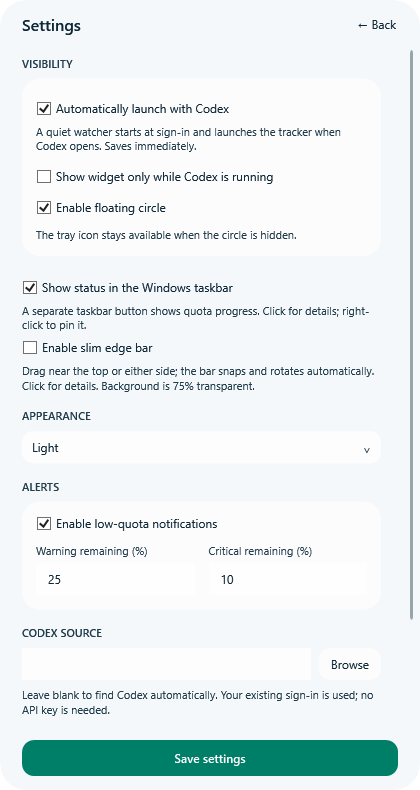
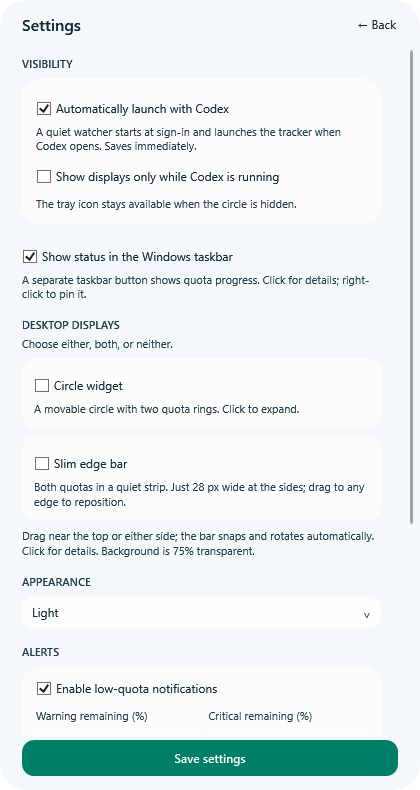
Balance display choices and slim the side bar with subtle quota colors

diff --git a/src/CodexUsageTracker.App/SettingsPage.xaml b/src/CodexUsageTracker.App/SettingsPage.xaml
@@ -13,9 +13,9 @@
         <StackPanel Margin="22,8,15,22">
           <TextBlock Text="VISIBILITY" FontSize="11" FontWeight="SemiBold" Foreground="{DynamicResource MutedBrush}"/>
           <Border Background="{DynamicResource CardBrush}" CornerRadius="18" Padding="14" Margin="0,8,0,16">
-            <StackPanel><CheckBox x:Name="Startup" Content="Automatically launch with Codex" Click="ChangeStartup"/><TextBlock Text="A quiet watcher starts at sign-in and launches the tracker when Codex opens. Saves immediately." FontSize="11" TextWrapping="Wrap" Foreground="{DynamicResource MutedBrush}" Margin="0,0,0,8"/><CheckBox x:Name="OnlyRunning" Content="Show widget only while Codex is running"/><CheckBox x:Name="Floating" Content="Enable floating circle"/><TextBlock Text="The tray icon stays available when the circle is hidden." FontSize="11" Foreground="{DynamicResource MutedBrush}" TextWrapping="Wrap" Margin="0,4,0,0"/></StackPanel>
+            <StackPanel><CheckBox x:Name="Startup" Content="Automatically launch with Codex" Click="ChangeStartup"/><TextBlock Text="A quiet watcher starts at sign-in and launches the tracker when Codex opens. Saves immediately." FontSize="11" TextWrapping="Wrap" Foreground="{DynamicResource MutedBrush}" Margin="0,0,0,8"/><CheckBox x:Name="OnlyRunning" Content="Show displays only while Codex is running"/><TextBlock Text="The tray icon stays available when the circle is hidden." FontSize="11" Foreground="{DynamicResource MutedBrush}" TextWrapping="Wrap" Margin="0,4,0,0"/></StackPanel>
           </Border>
-          <CheckBox x:Name="TaskbarEnabled" Content="Show status in the Windows taskbar"/><TextBlock Text="A separate taskbar button shows quota progress. Click for details; right-click to pin it." TextWrapping="Wrap" FontSize="11" Foreground="{DynamicResource MutedBrush}"/><CheckBox x:Name="EdgeEnabled" Content="Enable slim edge bar"/><TextBlock Text="Drag near the top or either side; the bar snaps and rotates automatically. Click for details. Background is 75% transparent." TextWrapping="Wrap" FontSize="11" Foreground="{DynamicResource MutedBrush}" Margin="0,0,0,16"/><TextBlock Text="APPEARANCE" FontSize="11" FontWeight="SemiBold" Foreground="{DynamicResource MutedBrush}"/>
+          <CheckBox x:Name="TaskbarEnabled" Content="Show status in the Windows taskbar"/><TextBlock Text="A separate taskbar button shows quota progress. Click for details; right-click to pin it." TextWrapping="Wrap" FontSize="11" Foreground="{DynamicResource MutedBrush}"/><TextBlock Text="DESKTOP DISPLAYS" FontSize="11" FontWeight="SemiBold" Foreground="{DynamicResource MutedBrush}" Margin="0,16,0,4"/><TextBlock Text="Choose either, both, or neither." FontSize="11" Foreground="{DynamicResource MutedBrush}" Margin="0,0,0,8"/><Border Background="{DynamicResource CardBrush}" CornerRadius="14" Padding="12" Margin="0,0,0,8"><StackPanel><CheckBox x:Name="Floating" Content="Circle widget"/><TextBlock Text="A movable circle with two quota rings. Click to expand." FontSize="11" TextWrapping="Wrap" Foreground="{DynamicResource MutedBrush}"/></StackPanel></Border><Border Background="{DynamicResource CardBrush}" CornerRadius="14" Padding="12" Margin="0,0,0,8"><StackPanel><CheckBox x:Name="EdgeEnabled" Content="Slim edge bar"/><TextBlock Text="Both quotas in a quiet strip. Just 28 px wide at the sides; drag to any edge to reposition." FontSize="11" TextWrapping="Wrap" Foreground="{DynamicResource MutedBrush}"/></StackPanel></Border><TextBlock Text="Drag near the top or either side; the bar snaps and rotates automatically. Click for details. Background is 75% transparent." TextWrapping="Wrap" FontSize="11" Foreground="{DynamicResource MutedBrush}" Margin="0,0,0,16"/><TextBlock Text="APPEARANCE" FontSize="11" FontWeight="SemiBold" Foreground="{DynamicResource MutedBrush}"/>
           <ComboBox x:Name="ThemeChoice" SelectedIndex="0" Margin="0,8,0,16"><ComboBoxItem Content="System"/><ComboBoxItem Content="Light"/><ComboBoxItem Content="Dark"/></ComboBox>
           <TextBlock Text="ALERTS" FontSize="11" FontWeight="SemiBold" Foreground="{DynamicResource MutedBrush}"/>
           <Border Background="{DynamicResource CardBrush}" CornerRadius="18" Padding="14" Margin="0,8,0,16">

diff --git a/src/CodexUsageTracker.App/EdgeBarWindow.xaml b/src/CodexUsageTracker.App/EdgeBarWindow.xaml
@@ -1,5 +1,6 @@
 <Window x:Class="CodexUsageTracker.App.EdgeBarWindow" xmlns="http://schemas.microsoft.com/winfx/2006/xaml/presentation" xmlns:x="http://schemas.microsoft.com/winfx/2006/xaml" WindowStyle="None" ResizeMode="NoResize" AllowsTransparency="True" Background="Transparent" ShowInTaskbar="False" Topmost="True" ShowActivated="False" Title="Codex edge usage bar">
-  <Border Background="{DynamicResource EdgeGlassBrush}" CornerRadius="5" Padding="6,4" MouseLeftButtonDown="MoveOrOpen" Cursor="Hand" AutomationProperties.Name="Codex usage; click for details, drag along screen edge">
+  <Border Width="132" Height="28" Background="{DynamicResource EdgeGlassBrush}" CornerRadius="6" Padding="6,4" MouseLeftButtonDown="MoveOrOpen" Cursor="Hand" AutomationProperties.Name="Codex usage; click for details, drag along screen edge">
+    <Border.LayoutTransform><RotateTransform x:Name="EdgeRotation"/></Border.LayoutTransform>
     <StackPanel x:Name="Quotas" Orientation="Horizontal" HorizontalAlignment="Center" VerticalAlignment="Center">
       <StackPanel x:Name="FiveBlock" Width="60" Margin="0,0,10,0">
         <TextBlock FontSize="11" HorizontalAlignment="Center"><Run Text="5h " FontSize="9"/><Run Text="{Binding FiveRemaining, Mode=OneWay}"/></TextBlock>

diff --git a/src/CodexUsageTracker.App/TaskbarStatusWindow.cs b/src/CodexUsageTracker.App/TaskbarStatusWindow.cs
@@ -25,8 +25,8 @@ internal sealed class TaskbarStatusWindow : Window
     public void UpdateStatus(ImageSource? icon)
     {
         var view = controller.ViewModel;
-        Icon = icon;
-        Title = $"5h {view.FiveRemaining} · Week {view.WeekRemaining} — Codex";
+        Icon = CreateQuotaIcon(view);
+        Title = $"Codex · 5h {view.FiveRemaining} · Week {view.WeekRemaining}";
         TaskbarItemInfo.Description = $"{Title}\n{view.FiveReset}\n{view.WeekReset}\n{view.Status}";
         var state = view.OverallStatus;
         TaskbarItemInfo.ProgressState = state switch
@@ -34,9 +34,28 @@ internal sealed class TaskbarStatusWindow : Window
             QuotaStatus.Unknown or QuotaStatus.Stale or QuotaStatus.ResetDue => TaskbarItemProgressState.None,
             QuotaStatus.Critical or QuotaStatus.Exhausted => TaskbarItemProgressState.Error,
             QuotaStatus.Warning => TaskbarItemProgressState.Paused,
-            _ => TaskbarItemProgressState.Normal
+            _ => TaskbarItemProgressState.None
         };
         var remaining = new[] { view.Snapshot.FiveHour, view.Snapshot.Weekly }.Where(window => window is not null && !window.HasExpired(DateTimeOffset.UtcNow)).Select(window => window!.RemainingPercent).ToArray();
         TaskbarItemInfo.ProgressValue = state == QuotaStatus.Exhausted ? 1 : remaining.Length == 0 ? 0 : remaining.Min() / 100;
+    }
+    internal static System.Windows.Media.Imaging.RenderTargetBitmap CreateQuotaIcon(TrackerViewModel view)
+    {
+        var visual = new DrawingVisual();
+        using (var dc = visual.RenderOpen())
+        {
+            dc.DrawRoundedRectangle(new SolidColorBrush(Color.FromRgb(25, 34, 44)), null, new Rect(0, 0, 32, 32), 7, 7);
+            foreach (var (value, state, y, healthy) in new[] {
+                (view.FiveValue, view.FiveStatus, 8d, Color.FromRgb(121, 200, 182)),
+                (view.WeekValue, view.WeekStatus, 20d, Color.FromRgb(168, 172, 216)) })
+            {
+                var color = state switch { QuotaStatus.Warning => Colors.Orange, QuotaStatus.Critical or QuotaStatus.Exhausted => Colors.LightCoral, QuotaStatus.Stale or QuotaStatus.Unknown or QuotaStatus.ResetDue => Colors.SlateGray, _ => healthy };
+                dc.DrawRoundedRectangle(new SolidColorBrush(Color.FromRgb(65, 77, 90)), null, new Rect(5, y, 22, 4), 2, 2);
+                var length = state == QuotaStatus.Exhausted ? 22 : Math.Clamp(value, 0, 100) / 100 * 22;
+                if (length > 0) dc.DrawRoundedRectangle(new SolidColorBrush(color), null, new Rect(5, y, length, 4), 2, 2);
+            }
+        }
+        var bitmap = new System.Windows.Media.Imaging.RenderTargetBitmap(32, 32, 96, 96, PixelFormats.Pbgra32);
+        bitmap.Render(visual); bitmap.Freeze(); return bitmap;
     }
 }

diff --git a/src/CodexUsageTracker.App/TrackerController.cs b/src/CodexUsageTracker.App/TrackerController.cs
@@ -20,6 +20,7 @@ public sealed class TrackerController : IDisposable
     private readonly Forms.ToolStripMenuItem trayQuota;
     private readonly Forms.ToolStripMenuItem trayWeek;
     private readonly Forms.ToolStripMenuItem trayFloating;
+    private readonly Forms.ToolStripMenuItem trayEdge;
     private readonly Forms.NotifyIcon tray;
     private readonly DispatcherTimer timer;
     private readonly WidgetWindow widget;
@@ -59,6 +60,9 @@ public sealed class TrackerController : IDisposable
         trayFloating = new Forms.ToolStripMenuItem("Hide floating circle", null, (_, _) =>
         { Settings.FloatingWidget = !Settings.FloatingWidget; SaveSettings(); });
         menu.Items.Add(trayFloating);
+        trayEdge = new Forms.ToolStripMenuItem("Show slim edge bar", null, (_, _) =>
+        { Settings.EdgeBar = !Settings.EdgeBar; SaveSettings(); });
+        menu.Items.Add(trayEdge);
         menu.Items.Add(new Forms.ToolStripSeparator());
         menu.Items.Add("Quit", null, (_, _) => Application.Current.Shutdown());
         tray.ContextMenuStrip = menu;
@@ -183,6 +187,7 @@ public sealed class TrackerController : IDisposable
         trayQuota.Tag = ViewModel.FiveRemaining;
         trayWeek.Tag = ViewModel.WeekRemaining;
         trayFloating.Text = Settings.FloatingWidget ? "Hide floating circle" : "Show floating circle";
+        trayEdge.Text = Settings.EdgeBar ? "Hide slim edge bar" : "Show slim edge bar";
         if (tray.ContextMenuStrip is { } menu)
         { menu.BackColor = TrayMenuRenderer.Background; menu.ForeColor = TrayMenuRenderer.Foreground; }
     }
@@ -271,6 +276,9 @@ public sealed class TrackerController : IDisposable
                 using var file = File.Create(Path.Combine(directory, name + ".png")); encoder.Save(file);
             }
             Capture("widget", widget); Capture("details", details);
+            var taskbarPreview = new System.Windows.Media.Imaging.PngBitmapEncoder();
+            taskbarPreview.Frames.Add(System.Windows.Media.Imaging.BitmapFrame.Create(TaskbarStatusWindow.CreateQuotaIcon(ViewModel)));
+            using (var iconFile = File.Create(Path.Combine(directory, "taskbar-status.png"))) taskbarPreview.Save(iconFile);
             PreviewScene.Save(Path.Combine(directory, "widget-context.png"), widget, false);
             PreviewScene.Save(Path.Combine(directory, "details-context.png"), details, true);
             foreach (var edge in new[] { "Top", "Left", "Right" }) { Settings.Edge = edge; edgeBar.Place(); edgeBar.Show(); edgeBar.Place(); Capture("edge-" + edge, edgeBar); }

diff --git a/src/CodexUsageTracker.App/EdgeBarWindow.xaml.cs b/src/CodexUsageTracker.App/EdgeBarWindow.xaml.cs
@@ -14,10 +14,11 @@ public partial class EdgeBarWindow : Window
     {
         var settings = controller.Settings;
         var horizontal = settings.Edge == "Top";
-        Width = horizontal ? 132 : 52; Height = horizontal ? 28 : 62;
-        Quotas.Orientation = horizontal ? Orientation.Horizontal : Orientation.Vertical;
-        FiveBlock.Width = WeekBlock.Width = horizontal ? 54 : 40;
-        FiveBlock.Margin = horizontal ? new Thickness(0, 0, 10, 0) : new Thickness(0, 0, 0, 10);
+        Width = horizontal ? 132 : 28; Height = horizontal ? 28 : 132;
+        EdgeRotation.Angle = horizontal ? 0 : settings.Edge == "Left" ? -90 : 90;
+        Quotas.Orientation = Orientation.Horizontal;
+        FiveBlock.Width = WeekBlock.Width = 54;
+        FiveBlock.Margin = new Thickness(0, 0, 10, 0);
         var screen = Forms.Screen.AllScreens.FirstOrDefault(item => item.DeviceName == settings.EdgeMonitor) ?? Forms.Screen.PrimaryScreen!;
         var dpi = VisualTreeHelper.GetDpi(this); var area = screen.WorkingArea;
         var rect = EdgeBarPlacement.Place(new(area.Left / dpi.DpiScaleX, area.Top / dpi.DpiScaleY, area.Width / dpi.DpiScaleX, area.Height / dpi.DpiScaleY), settings.Edge, settings.EdgeOffset, Width, Height);
@@ -34,7 +35,7 @@ public partial class EdgeBarWindow : Window
         var cursor = Forms.Cursor.Position;
         controller.Settings.Edge = EdgeBarPlacement.NearestEdge(new(work.Left, work.Top, work.Width, work.Height), cursor.X, cursor.Y);
         var horizontal = controller.Settings.Edge == "Top";
-        Width = horizontal ? 132 : 52; Height = horizontal ? 28 : 62;
+        Width = horizontal ? 132 : 28; Height = horizontal ? 28 : 132;
         var span = horizontal ? work.Width / dpi.DpiScaleX - Width : work.Height / dpi.DpiScaleY - Height;
         var position = horizontal ? Left - work.Left / dpi.DpiScaleX : Top - work.Top / dpi.DpiScaleY;
         controller.Settings.EdgeMonitor = screen.DeviceName;

diff --git a/tests/CodexUsageTracker.Tests/EdgeBarTests.cs b/tests/CodexUsageTracker.Tests/EdgeBarTests.cs
@@ -5,6 +5,11 @@ namespace CodexUsageTracker.Tests;
 
 public class EdgeBarTests
 {
+    [Fact] public void DesktopDisplaysHaveEqualOptInDefaults()
+    {
+        var settings = new TrackerSettings();
+        Assert.False(settings.FloatingWidget); Assert.False(settings.EdgeBar); Assert.True(settings.TaskbarStatus);
+    }
     [Theory]
     [InlineData(500, 10, "Top")]
     [InlineData(8, 400, "Left")]
@@ -19,7 +24,7 @@ public class EdgeBarTests
     public void BarFitsSelectedEdgeAndLeavesRoomForDetails(string edge, double offset)
     {
         var work = new LayoutRect(-1920, 100, 1920, 980);
-        var bar = EdgeBarPlacement.Place(work, edge, offset, edge == "Top" ? 150 : 58, edge == "Top" ? 53 : 108);
+        var bar = EdgeBarPlacement.Place(work, edge, offset, edge == "Top" ? 132 : 28, edge == "Top" ? 28 : 132);
         Assert.True(bar.Left >= work.Left && bar.Right <= work.Right && bar.Top >= work.Top && bar.Bottom <= work.Bottom);
         if (edge == "Top") Assert.Equal(work.Top, bar.Top);
         if (edge == "Left") Assert.Equal(work.Left, bar.Left);

diff --git a/src/CodexUsageTracker.App/TrackerViewModel.cs b/src/CodexUsageTracker.App/TrackerViewModel.cs
@@ -15,8 +15,8 @@ public sealed class TrackerViewModel : INotifyPropertyChanged
     public QuotaStatus OverallStatus => (QuotaStatus)Math.Max((int)FiveStatus, (int)WeekStatus);
     public Brush FiveBrush => StatusBrush(FiveStatus, "AccentBrush");
     public Brush WeekBrush => StatusBrush(WeekStatus, "WeekBrush");
-    public Brush EdgeFiveBrush => StatusBrush(FiveStatus, "MutedBrush");
-    public Brush EdgeWeekBrush => StatusBrush(WeekStatus, "MutedBrush");
+    public Brush EdgeFiveBrush => StatusBrush(FiveStatus, "EdgeFiveAccent");
+    public Brush EdgeWeekBrush => StatusBrush(WeekStatus, "EdgeWeekAccent");
     public Brush OverallBrush => StatusBrush(OverallStatus, "AccentBrush");
     public bool FiveExhausted => FiveStatus == QuotaStatus.Exhausted;
     public bool WeekExhausted => WeekStatus == QuotaStatus.Exhausted;

diff --git a/src/CodexUsageTracker.App/App.xaml.cs b/src/CodexUsageTracker.App/App.xaml.cs
@@ -62,6 +62,8 @@ public partial class App : Application
         Current.Resources["WarningBrush"] = new SolidColorBrush((Color)ColorConverter.ConvertFromString(dark ? "#FFC05C" : "#974B00"));
         Current.Resources["CriticalBrush"] = new SolidColorBrush((Color)ColorConverter.ConvertFromString(dark ? "#FF718C" : "#AE1638"));
         Current.Resources["EdgeGlassBrush"] = new SolidColorBrush((Color)ColorConverter.ConvertFromString(dark ? "#40141E28" : "#40FFFFFF"));
+        Current.Resources["EdgeFiveAccent"] = new SolidColorBrush((Color)ColorConverter.ConvertFromString(dark ? "#79C8B6" : "#34786A"));
+        Current.Resources["EdgeWeekAccent"] = new SolidColorBrush((Color)ColorConverter.ConvertFromString(dark ? "#A8ACD8" : "#656995"));
     }
 
     protected override void OnExit(ExitEventArgs e)

diff --git a/src/CodexUsageTracker.Core/TrackerSettings.cs b/src/CodexUsageTracker.Core/TrackerSettings.cs
@@ -5,7 +5,7 @@ namespace CodexUsageTracker.Core;
 public sealed class TrackerSettings
 {
     public bool OnlyWhileCodexRunning { get; set; } = true;
-    public bool FloatingWidget { get; set; } = true;
+    public bool FloatingWidget { get; set; }
     public bool TaskbarStatus { get; set; } = true;
     public bool TrayPercentage { get; set; } // Legacy preference, no longer used.
     public string TrayQuota { get; set; } = "5-hour";

diff --git a/README.md b/README.md
@@ -25,9 +25,13 @@ Images combine the actual WPF app rendering with an illustrative desktop and syn
 
 ## Display options
 
-The tray uses its original circular status icon. **Show status in the Windows taskbar** adds a separate native taskbar button with remaining-quota progress; its title and hover description contain both quotas. Click it to open details. Right-click the taskbar button and choose **Pin to taskbar** to retain its launcher when the tracker closes. Windows controls icon grouping and whether title text is visible; this does not insert custom text into Explorer or change your taskbar settings.
+**Circle widget** and **Slim edge bar** are equal, independent choices: use either, both, or neither. Both start disabled on fresh installs; existing preferences are preserved. Each has a matching toggle in Settings and the tray menu.
 
-The optional edge bar is 132 × 28 DIPs along the top or 52 × 62 DIPs at a side. Drag near the top, left, or right edge and release: it snaps and adapts automatically, remembering the monitor and position. Its background is **75% transparent**, with quiet neutral quota bars and colored low-quota warnings. Click for details. Disable the floating circle for taskbar-only or edge-bar use. The bar overlays a small part of the desktop; it does not reserve space.
+<img src="docs/images/edge-top.png" alt="Compact top-edge strip with two colored quota bars" /> <img src="docs/images/edge-side.png" alt="Narrow 28-DIP side strip with rotated quota labels" />
+
+The tray uses its original circular status icon. **Show status in the Windows taskbar** adds a separate native taskbar button with two colored quota bars (teal for 5-hour, lavender for weekly) and native warning highlights; its title and hover description contain both quotas. Click it to open details. Right-click the taskbar button and choose **Pin to taskbar** to retain its launcher when the tracker closes. Windows controls icon grouping and whether title text is visible; this does not insert custom text into Explorer or change your taskbar settings.
+
+The optional edge bar is 132 × 28 DIPs along the top or 28 × 132 DIPs at a side. Drag near the top, left, or right edge and release: it snaps and adapts automatically, remembering the monitor and position. Its background is **75% transparent**, with muted teal/lavender quota bars and colored low-quota warnings. Click for details. Disable the floating circle for taskbar-only or edge-bar use. The bar overlays a small part of the desktop; it does not reserve space.
 
 ## Run
 
@@ -108,7 +112,7 @@ docs/                       Architecture and synthetic UI previews
 
 ## Validation and limitations
 
-The implementation was compiled and tested on Windows 11 x64 with .NET SDK 8.0.425. Seventy-four automated tests cover bucket selection, unknown/malformed fields, stale readings, countdown boundaries, alert deduplication, local fallback, SQLite retention, settings recovery, click/drag handling at different display scales, quota status thresholds, non-overlapping panel placement, reset refresh retries through unavailable readings, monitor-gap recovery, and queued history operations under a SQLite write lock. Live app-server retrieval was verified with an existing Codex sign-in. Both themes and the settings panel are rendered for visual checks; widget pixels outside the circular edge are verified transparent. Windows 10 compatibility is targeted but has not been tested on a separate Windows 10 machine.
+The implementation was compiled and tested on Windows 11 x64 with .NET SDK 8.0.425. Seventy-five automated tests cover bucket selection, unknown/malformed fields, stale readings, countdown boundaries, alert deduplication, local fallback, SQLite retention, settings recovery, click/drag handling at different display scales, quota status thresholds, non-overlapping panel placement, reset refresh retries through unavailable readings, monitor-gap recovery, and queued history operations under a SQLite write lock. Live app-server retrieval was verified with an existing Codex sign-in. Both themes and the settings panel are rendered for visual checks; widget pixels outside the circular edge are verified transparent. Windows 10 compatibility is targeted but has not been tested on a separate Windows 10 machine.
 
 Codex process detection recognizes `codex.exe` (desktop app-server or CLI). The tracker's own temporary quota child is excluded from visibility decisions while it is reading. A background Codex process counts as running even if its main window is closed. There is no taskbar injection, browser scraping, automatic update service, or usage prediction based on token pricing. This is an independent utility, not an official OpenAI product.
 
